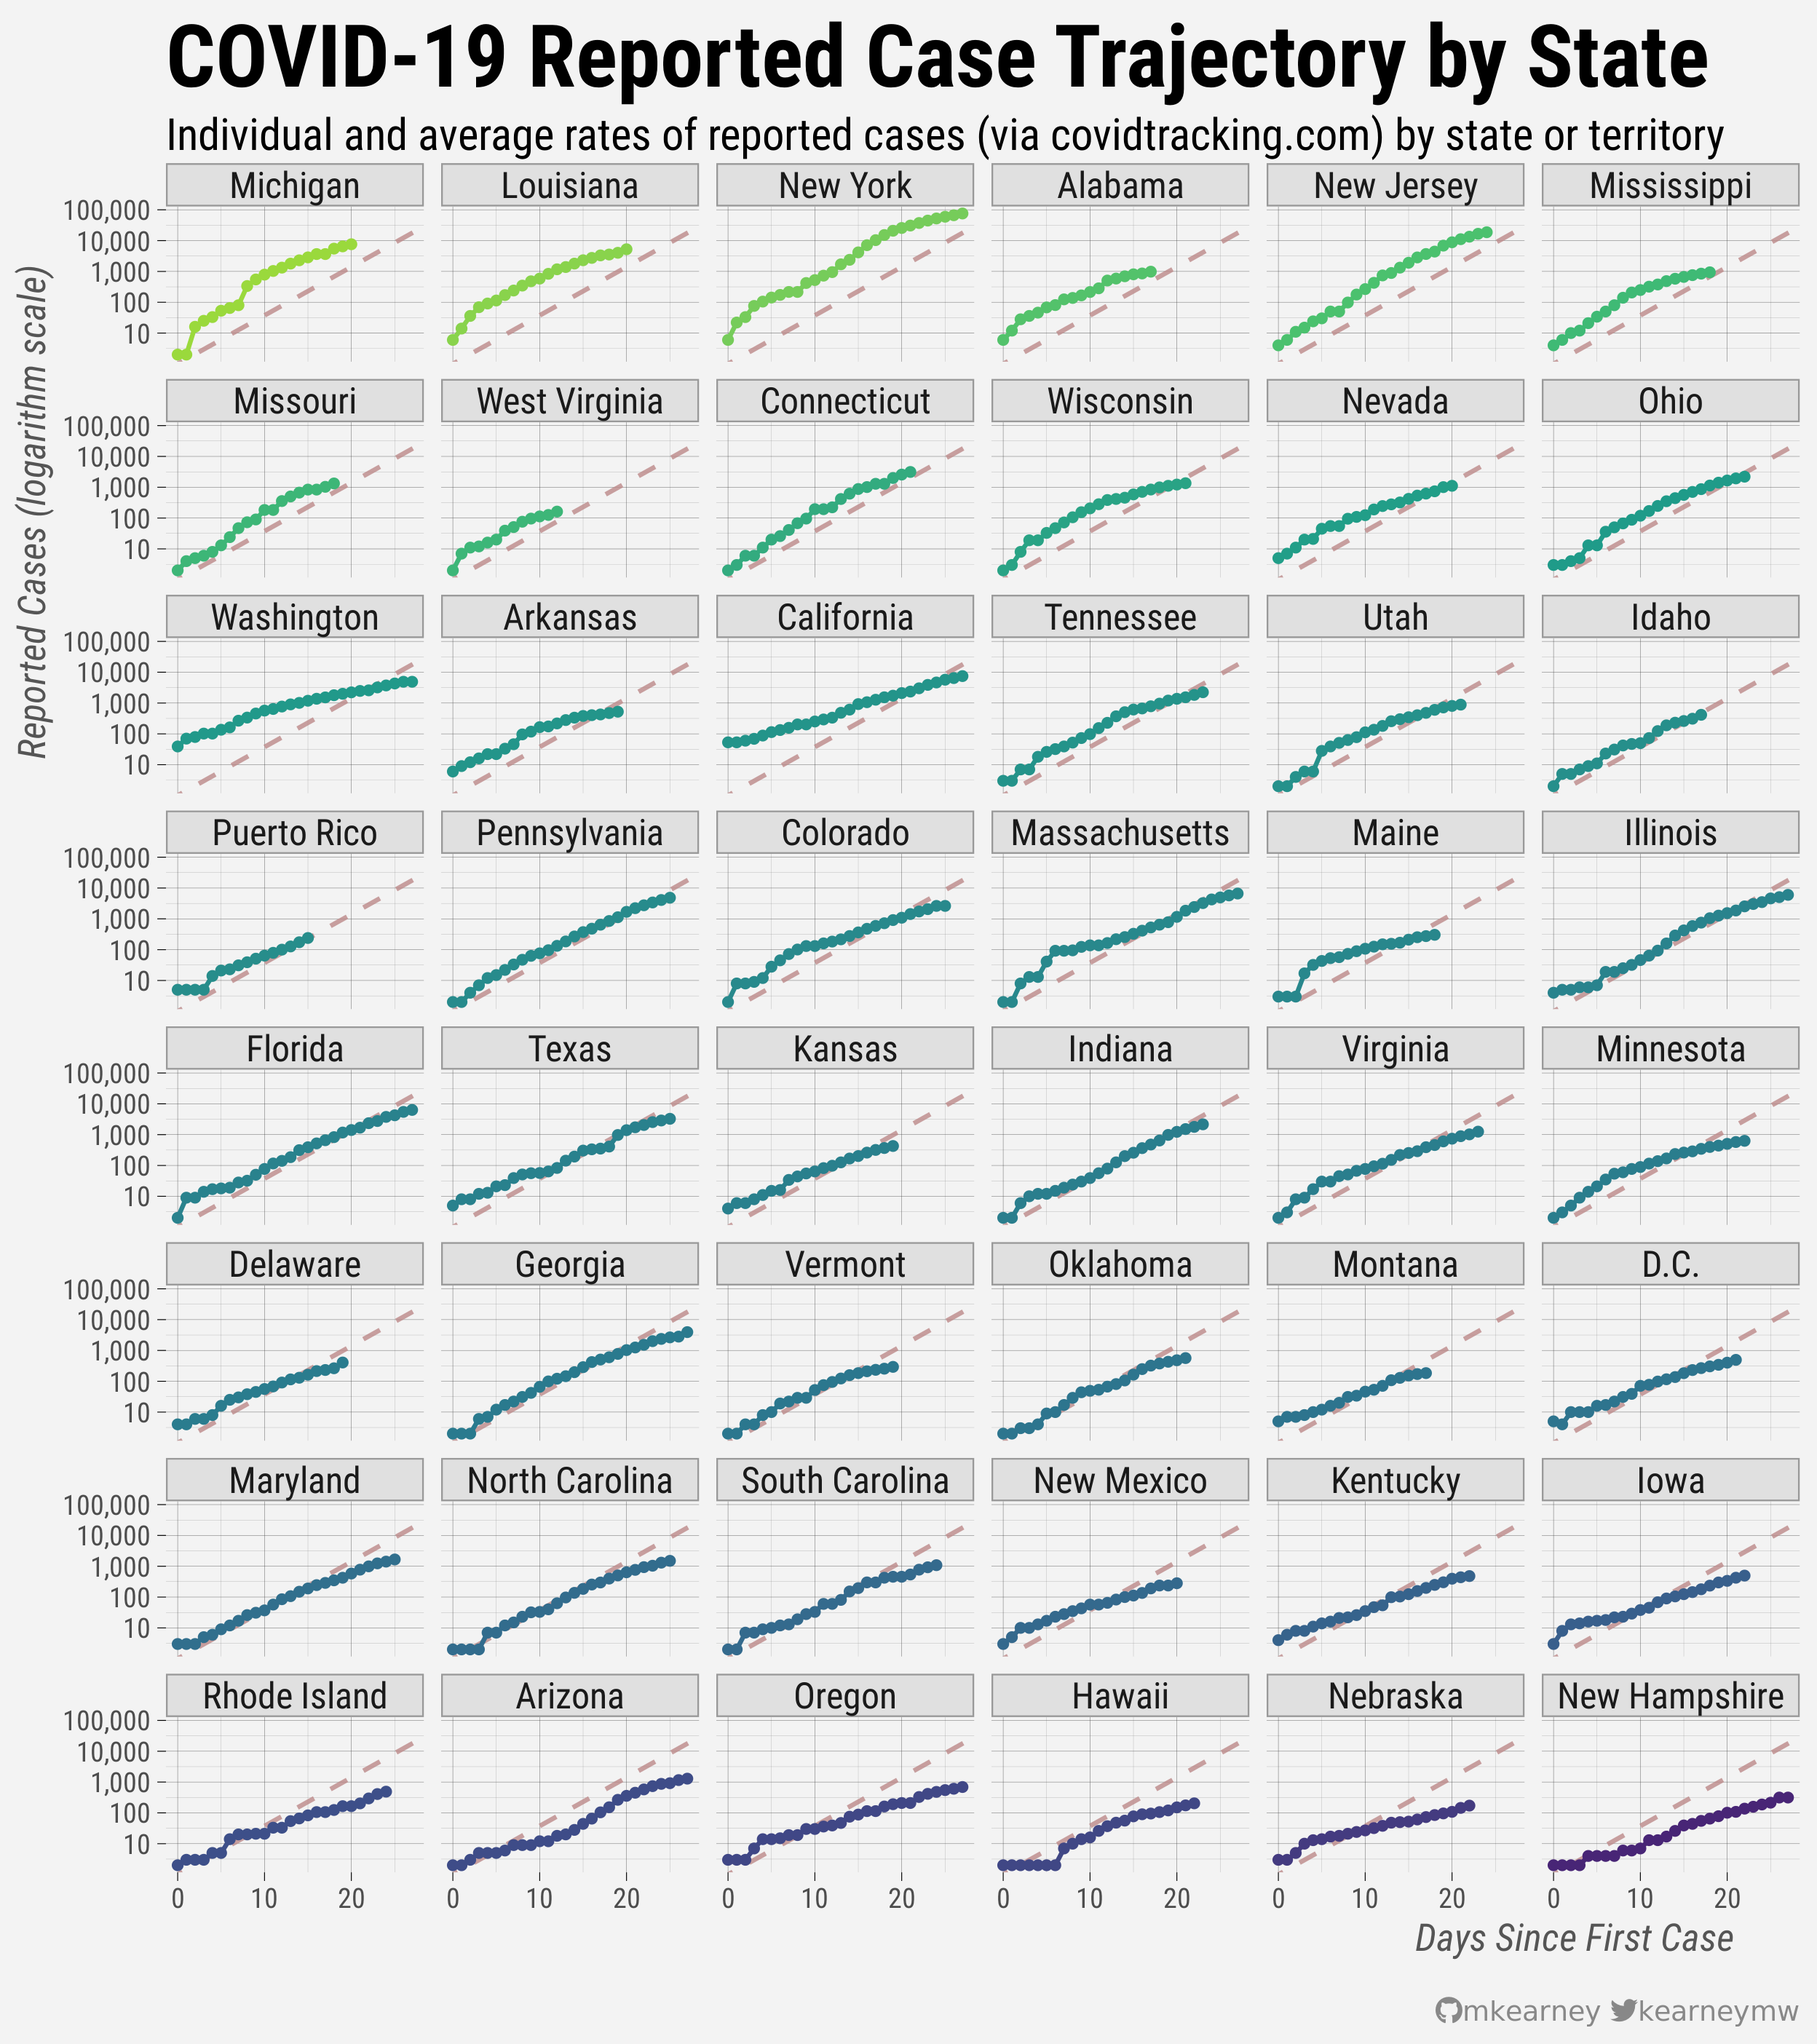
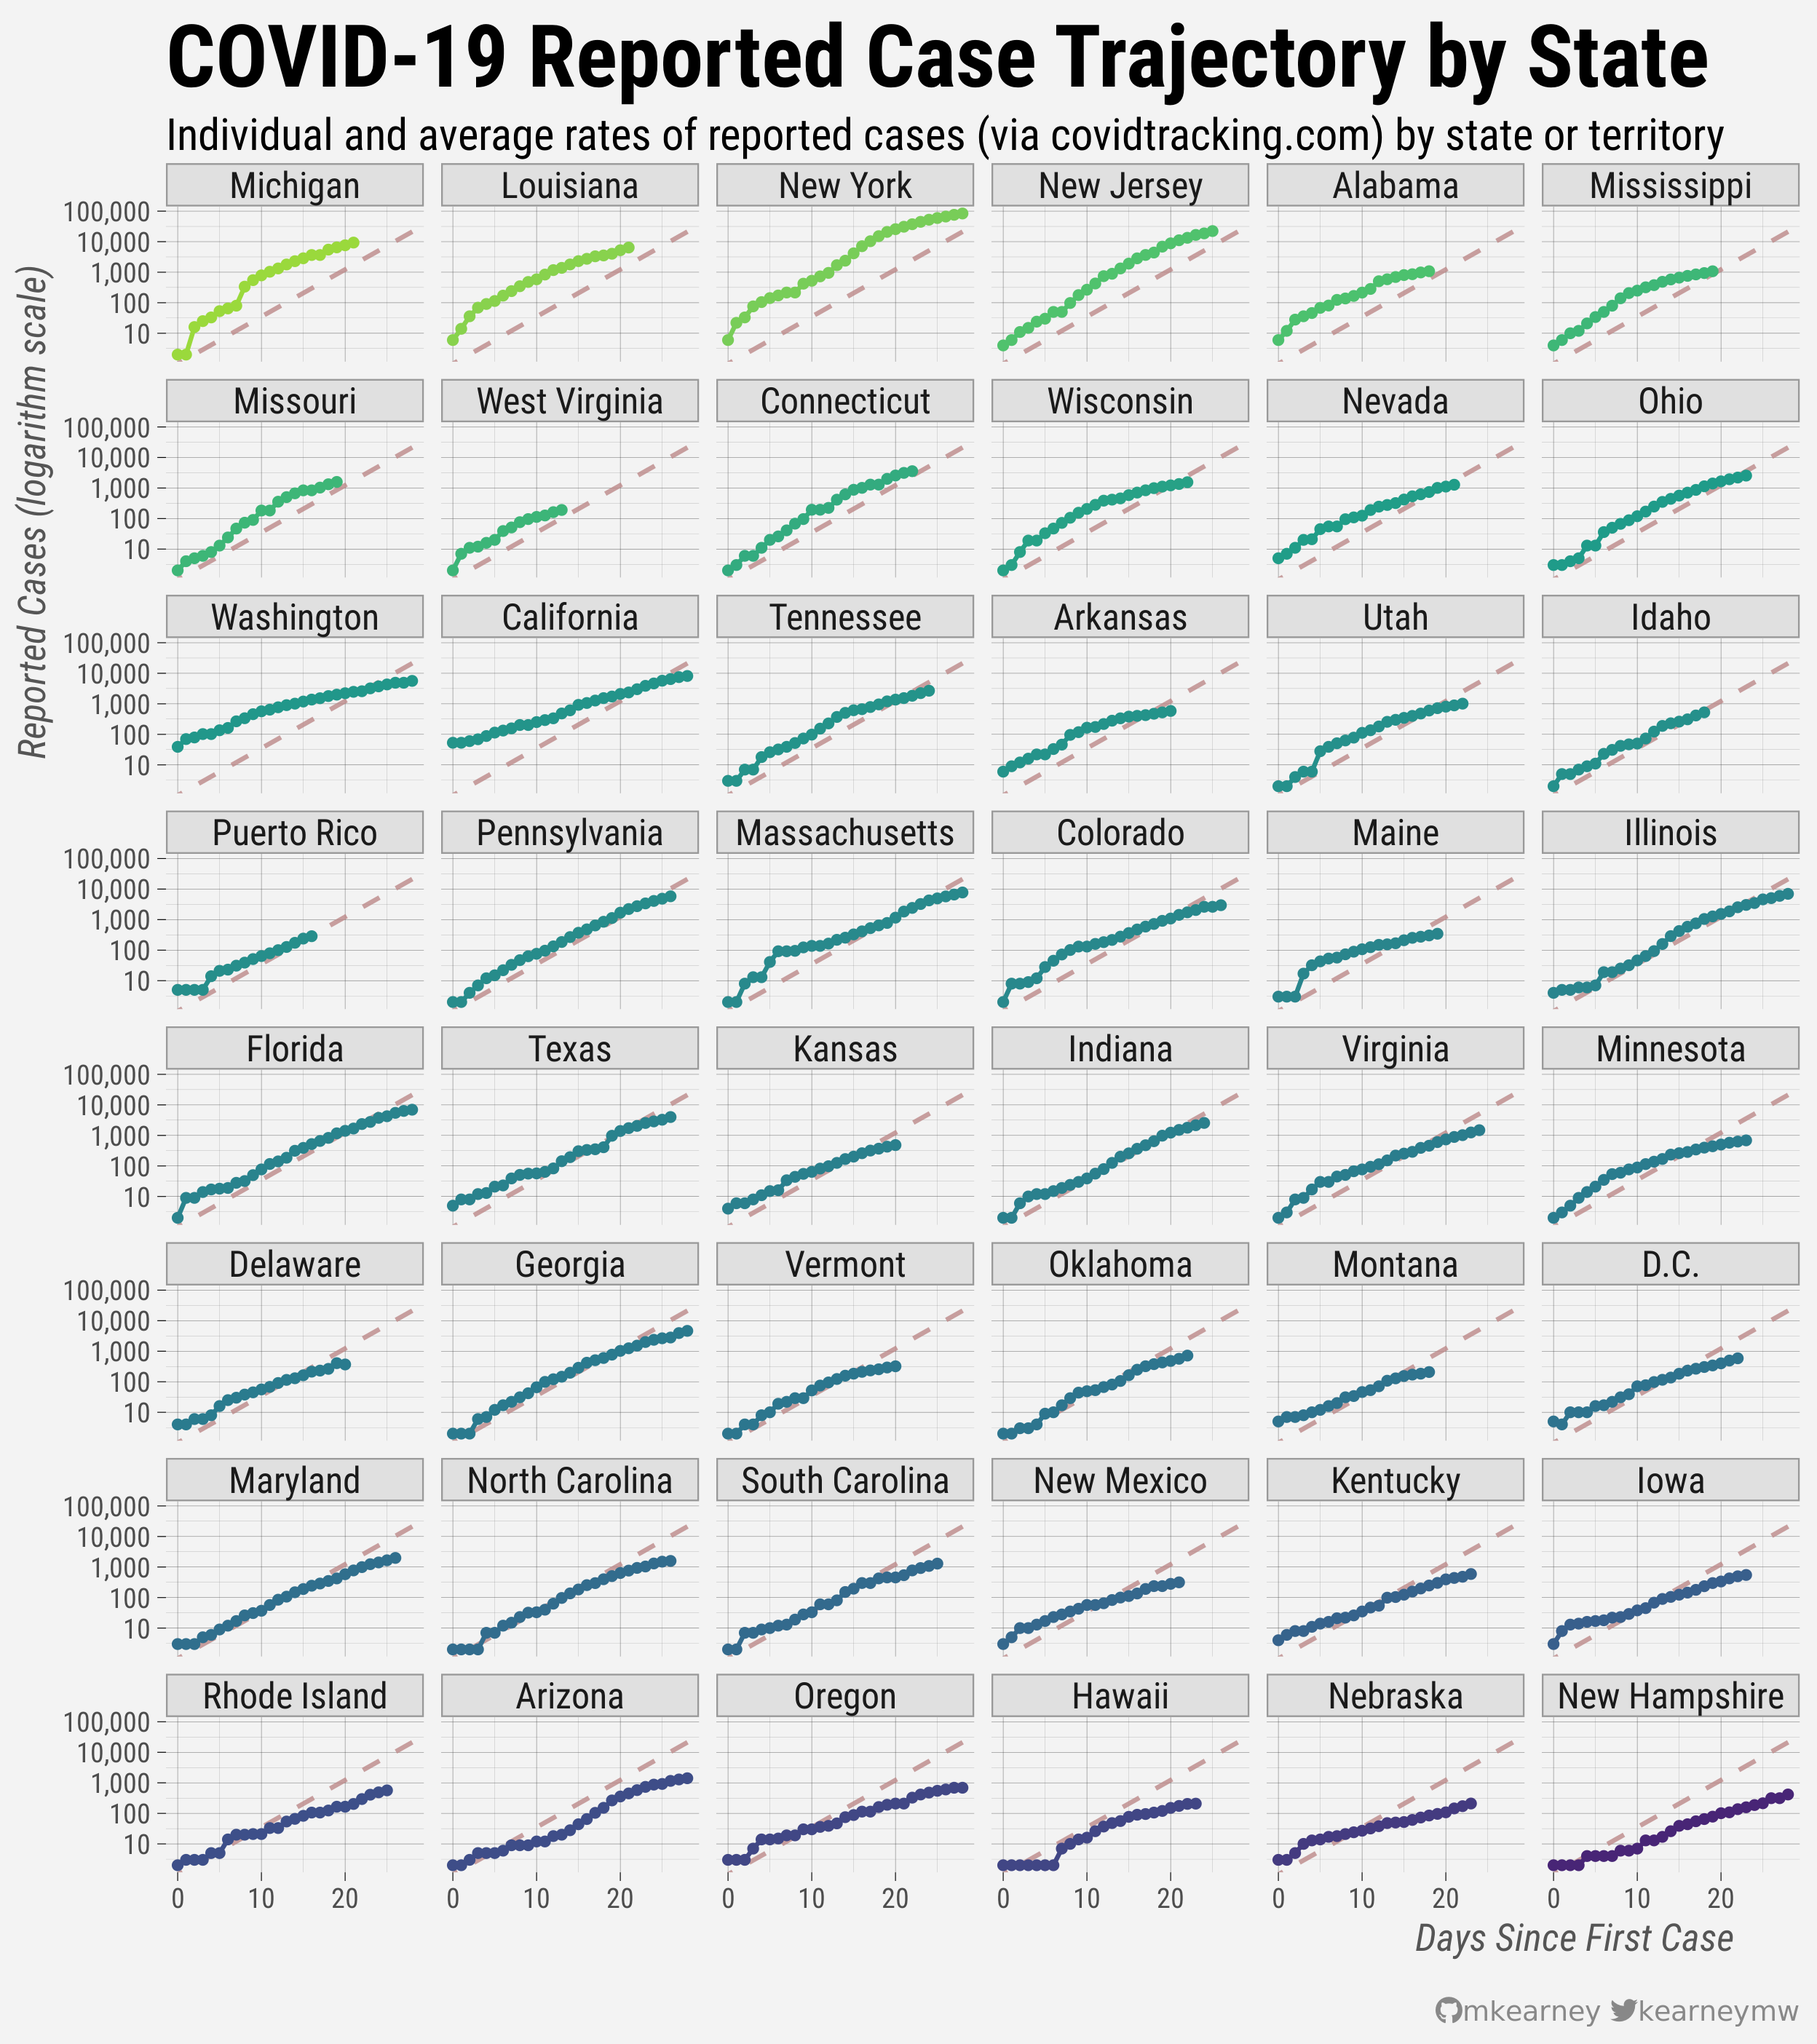
daily cron update

diff --git a/README.md b/README.md
@@ -40,7 +40,7 @@ grouped by similar endpoints and included below.
     #> # A tibble: 1 x 10
     #>   positive negative pos_neg hospitalized death  total hash  last_modified      
     #>      <int>    <int>   <int>        <int> <int>  <int> <chr> <dttm>             
-    #> 1   187701   876805 1064506        27190  3860 1.06e6 852f… 2020-04-01 20:22:25
+    #> 1   187701   876805 1064506        27190  3860 1.06e6 852f… 2020-04-01 21:16:03
     #> # … with 2 more variables: notes <chr>, total_test_results <int>
     ```
 
@@ -81,15 +81,15 @@ grouped by similar endpoints and included below.
     #>    state positive positive_score negative_score negative_regula…
     #>    <chr>    <int>          <int>          <int>            <int>
     #>  1 AK         133              1              1                1
-    #>  2 AL         999              1              1                0
-    #>  3 AR         564              1              1                1
-    #>  4 AZ        1289              1              1                0
-    #>  5 CA        8520              1              1                1
+    #>  2 AL        1077              1              1                0
+    #>  3 AR         584              1              1                1
+    #>  4 AZ        1413              1              1                0
+    #>  5 CA        8155              1              1                1
     #>  6 CO        2966              1              1                1
-    #>  7 CT        3128              1              1                1
-    #>  8 DC         499              1              1                1
-    #>  9 DE         319              1              1                1
-    #> 10 FL        6741              1              1                1
+    #>  7 CT        3557              1              1                1
+    #>  8 DC         586              1              1                1
+    #>  9 DE         368              1              1                1
+    #> 10 FL        6955              1              1                1
     #> # … with 46 more rows, and 16 more variables: commercial_score <int>,
     #> #   grade <chr>, score <int>, negative <int>, pending <int>,
     #> #   hospitalized <int>, death <int>, total <int>, last_update_et <chr>,
@@ -103,20 +103,20 @@ grouped by similar endpoints and included below.
     
     ``` r
     covid19_states_daily()
-    #> # A tibble: 1,429 x 17
+    #> # A tibble: 1,485 x 17
     #>    date       state positive negative pending hospitalized death total hash 
     #>    <date>     <chr>    <int>    <int>   <int>        <int> <int> <int> <chr>
-    #>  1 2020-03-31 AK         119     3594      NA            7     3  3713 5339…
-    #>  2 2020-03-31 AL         981     6298      NA           NA    13  7279 06fc…
-    #>  3 2020-03-31 AR         523     5959      NA           64     8  6482 243a…
-    #>  4 2020-03-31 AS          NA        3       2           NA     0     5 dc2e…
-    #>  5 2020-03-31 AZ        1289    18082      NA           78    24 19371 0d03…
-    #>  6 2020-03-31 CA        7482    21772   57400         1617   153 86654 68a2…
-    #>  7 2020-03-31 CO        2627    12737      NA          414    51 15364 853a…
-    #>  8 2020-03-31 CT        3128    13029      NA          608    69 16157 b03c…
-    #>  9 2020-03-31 DC         495     3262       2           NA     9  3759 fd5a…
-    #> 10 2020-03-31 DE         406     3696      NA           64    10  4102 31df…
-    #> # … with 1,419 more rows, and 8 more variables: date_checked <dttm>,
+    #>  1 2020-04-01 AK         133     4470      NA            9     3  4603 8f5b…
+    #>  2 2020-04-01 AL        1077     6697      NA           NA    26  7774 dae6…
+    #>  3 2020-04-01 AR         584     7354      NA           90    10  7938 a620…
+    #>  4 2020-04-01 AS           0       20       6           NA     0    26 737a…
+    #>  5 2020-04-01 AZ        1413    19645      NA          149    29 21058 29f0…
+    #>  6 2020-04-01 CA        8155    21772   57400         1855   171 87327 00c0…
+    #>  7 2020-04-01 CO        2966    13883      NA          509    69 16849 be8d…
+    #>  8 2020-04-01 CT        3557    13043      NA          766    85 16600 2661…
+    #>  9 2020-04-01 DC         586     3262       2           NA    11  3850 6e42…
+    #> 10 2020-04-01 DE         368     4015      NA           57    11  4383 e3b4…
+    #> # … with 1,475 more rows, and 8 more variables: date_checked <dttm>,
     #> #   total_test_results <int>, fips <chr>, death_increase <int>,
     #> #   hospitalized_increase <int>, negative_increase <int>,
     #> #   positive_increase <int>, total_test_results_increase <int>
